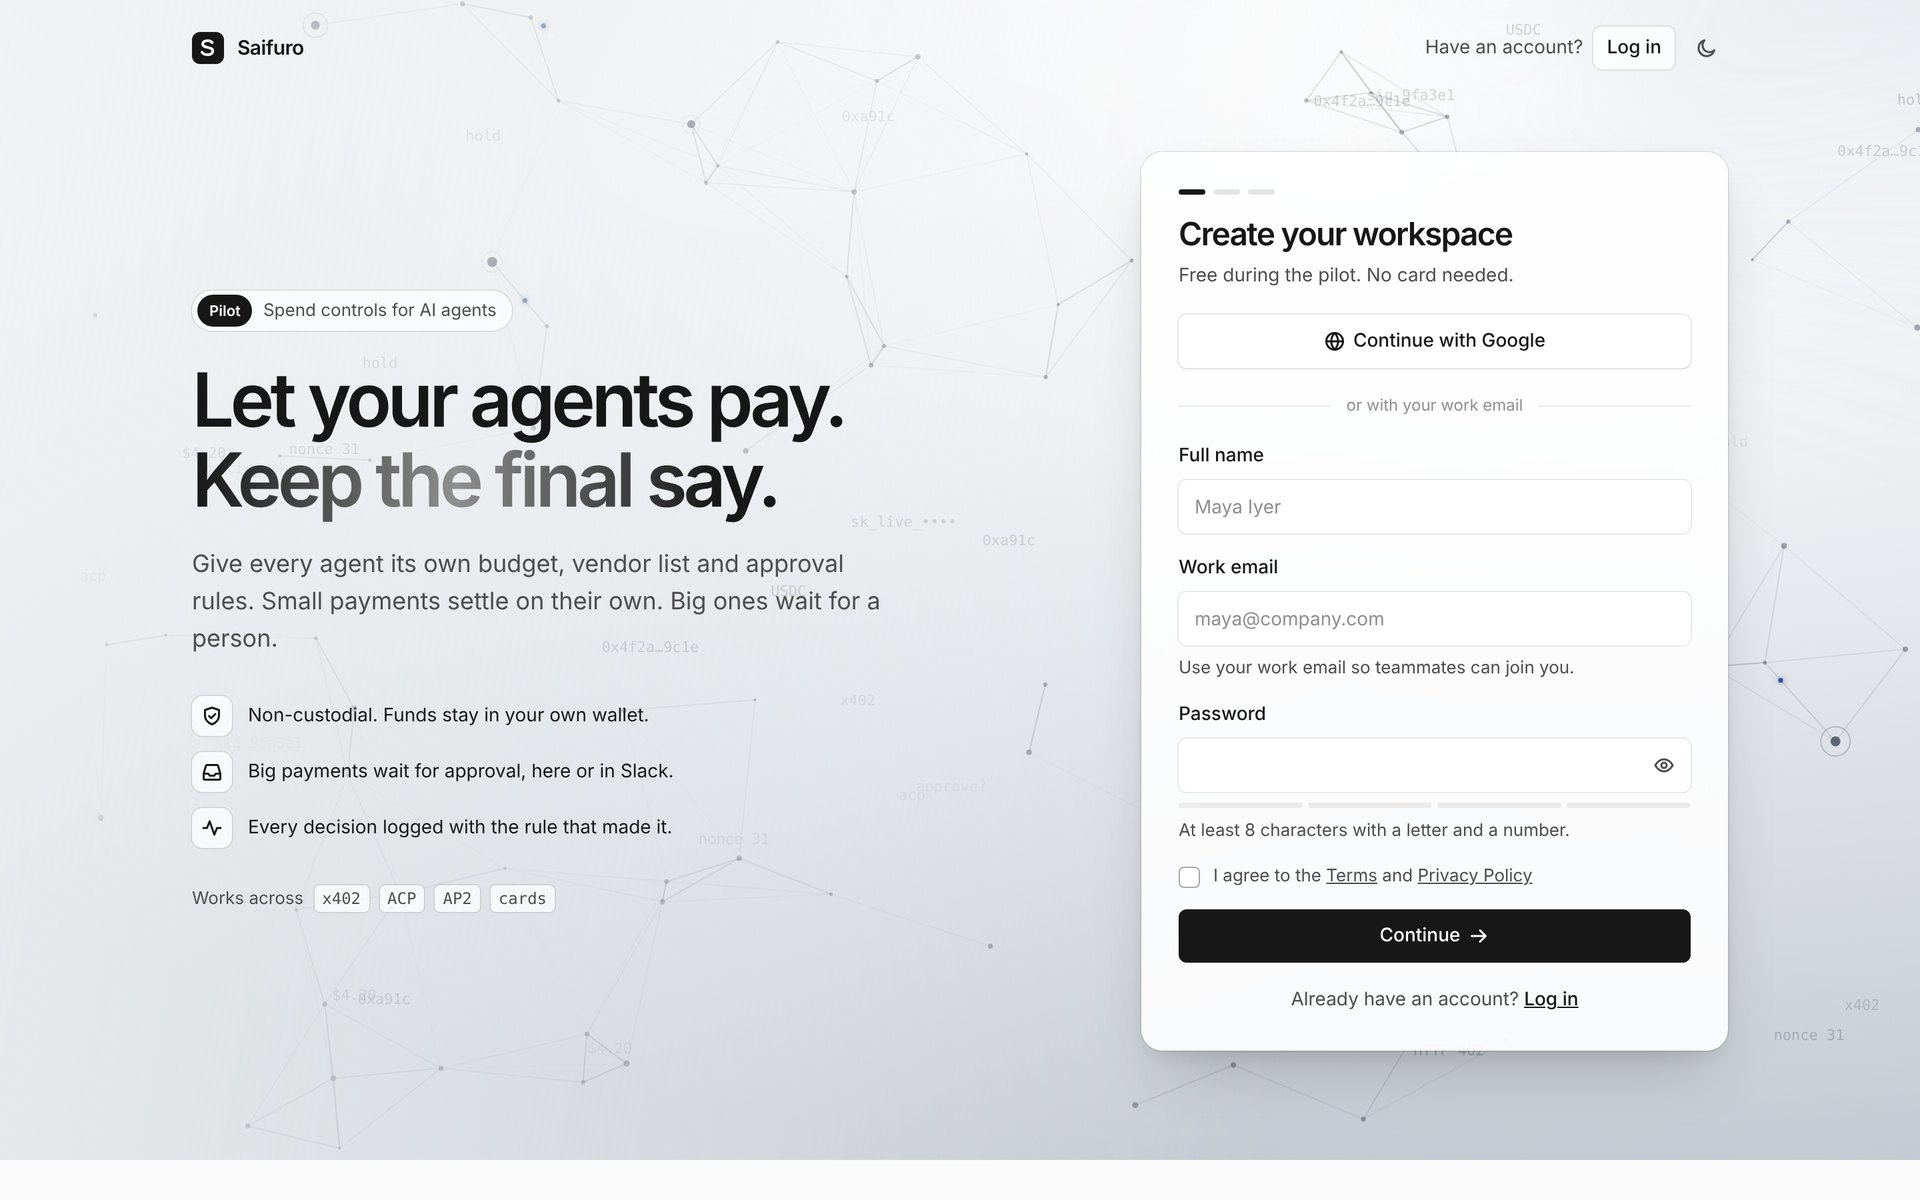
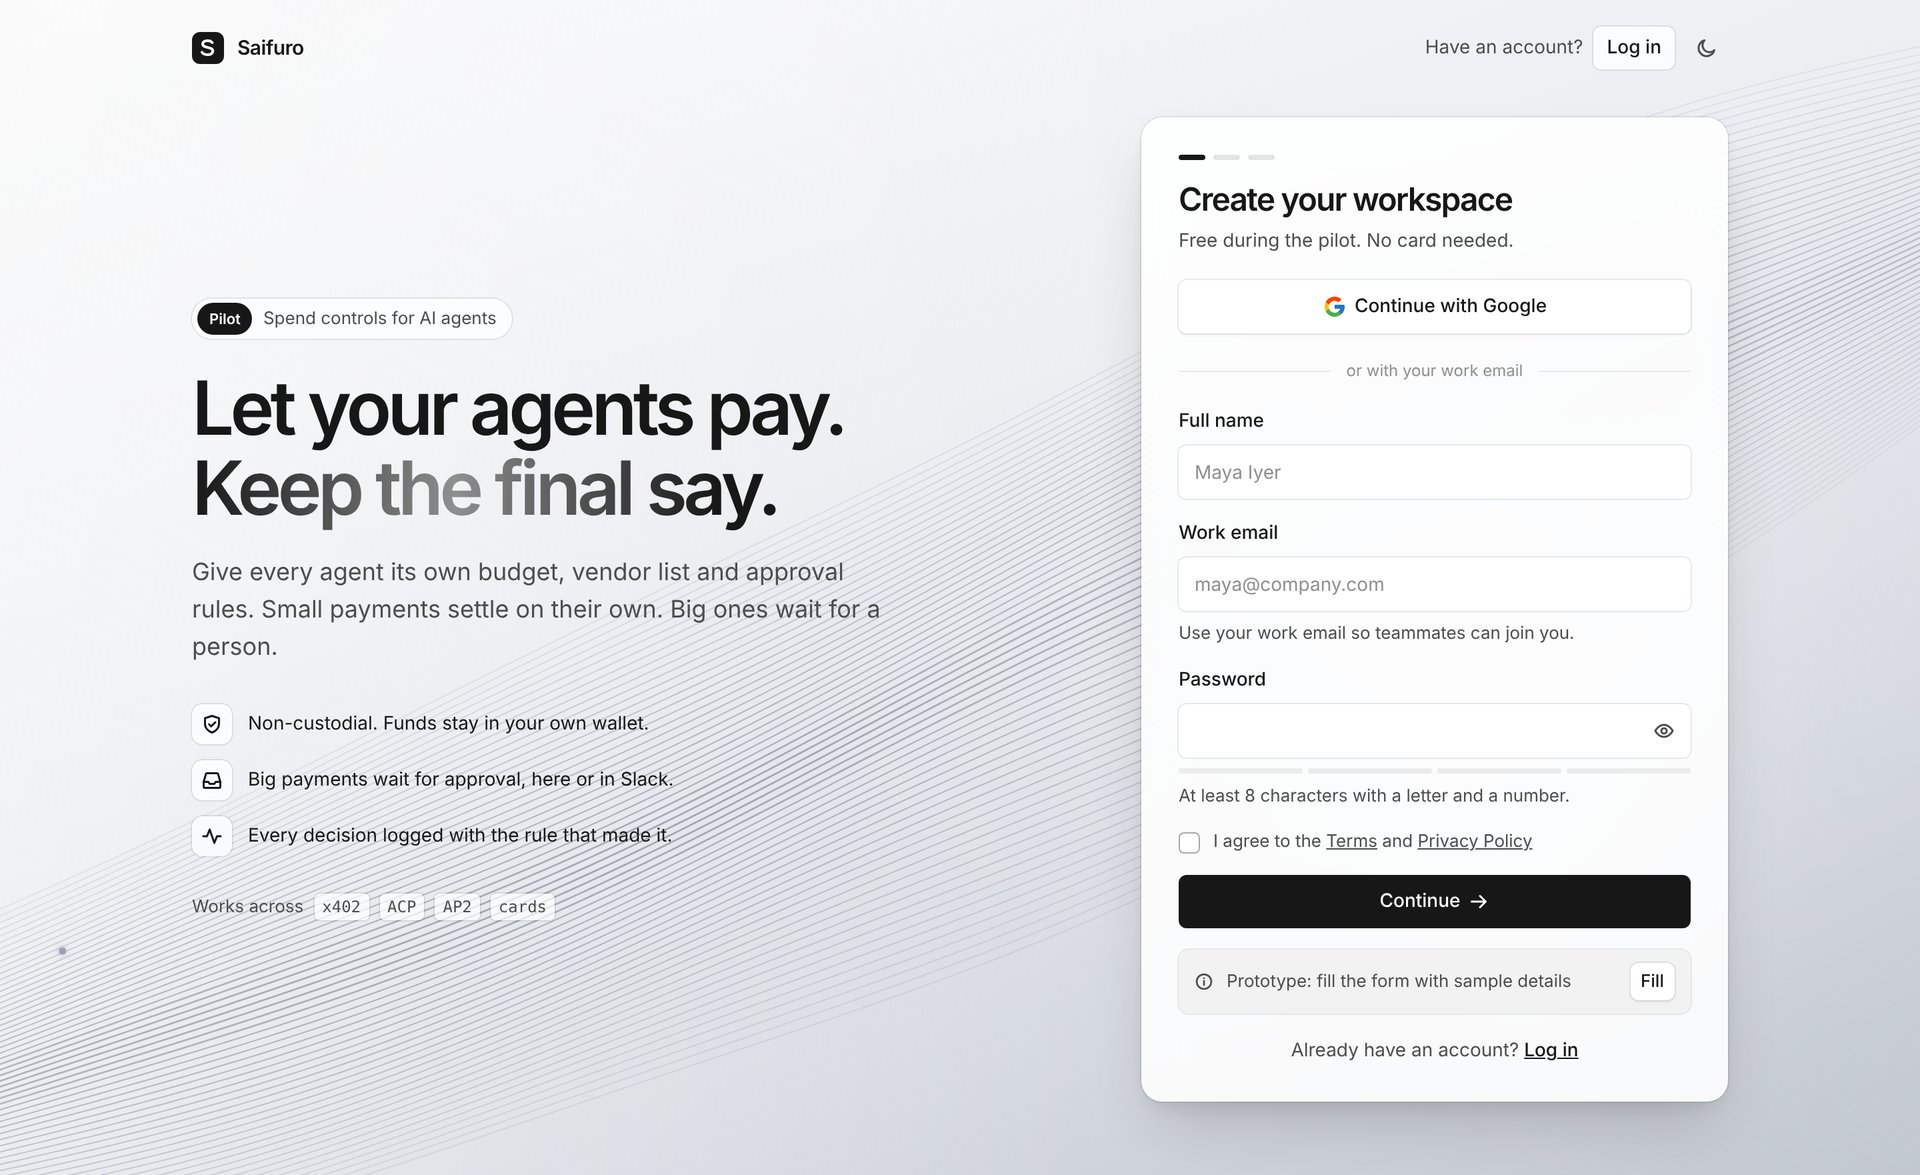
p02 Saifuro: new sign-up hero screenshot (silver flow, Google button, sample fill), copy updated for latest s02
Claude-Session: https://claude.ai/code/session_01XsxMJzHnu4bQwP42zg3JzL

diff --git a/p02/cases.js b/p02/cases.js
@@ -10,13 +10,13 @@
       title: 'Let agents pay. Keep the final say.',
       lede: 'AI agents are starting to buy things on their own: data, compute, flights. Saifuro Console is a concept for the control panel behind that. Teams give each agent a budget, a vendor list and approval rules, so small payments settle on their own and big ones wait for a person. I designed it and built it as a working prototype.',
       facts: [['Role', 'Product designer and builder'], ['Year', '2026'], ['Platform', 'Web console, desktop first'], ['Type', 'Self-initiated concept, not affiliated with Saifuro']],
-      hero: { src: 'saifuro-hero.jpg', w: 1920, h: 1200, alt: 'The Saifuro sign-up page: a headline reading Let your agents pay. Keep the final say, three product promises and a create-your-workspace form.' },
+      hero: { src: 'saifuro-hero.jpg?v=2', w: 1920, h: 1175, alt: 'The Saifuro sign-up page over a silver flow background: a headline reading Let your agents pay. Keep the final say, three product promises, and a create-your-workspace form with Continue with Google and a sample-details fill for the prototype.' },
       stats: [['5', 'Core surfaces: overview, approvals, agents, activity, settings'], ['4', 'Steps to create an agent with its own key and limits'], ['6', 'Policy checks shown on every approval request']],
       sections: [
         { label: 'Overview', title: 'A spend control panel for teams running AI agents.',
           lede: 'The console answers one question at a glance: what needs me right now, and how are my agents spending? Everything else, from creating an agent to exporting a log for finance, is one step away.',
           blocks: [{ type: 'lists', groups: [
-            { title: 'What I designed and built', items: ['Sign-up, log in, single sign-on and a guided first-run tour', 'Overview with approvals, spend and budget by agent', 'Approval review with policy checks and keyboard shortcuts', 'Four-step agent setup with a one-time key', 'Activity log with search, filters and CSV export', 'Approvers, alerts and light and dark themes'] },
+            { title: 'What I designed and built', items: ['Sign-up with Google or work email, log in, single sign-on and a guided tour on first login', 'Overview with approvals, spend and budget by agent', 'Approval review with policy checks and keyboard shortcuts', 'Four-step agent setup with a one-time key', 'Activity log with search, filters and CSV export', 'Approvers, alerts and light and dark themes'] },
             { title: 'Out of scope', muted: true, items: ['Real payments and wallets', 'Saifuro’s actual product or data', 'Back-end and payment-rail integrations'] }] }] },
         { label: 'Problem', title: 'Agents can spend money. Teams can’t see or stop it.',
           blocks: [
@@ -59,7 +59,7 @@
               images: [{ src: 'saifuro-key.jpg', w: 1920, h: 1200, alt: 'The agent created screen: a summary sentence of its limits, a warning to copy the key now, the key with a copy button, a stored-safely checkbox and a code snippet.' }],
               points: [['Shown once', 'The warning explains why, and how to rotate the key if it is lost.'], ['Ready to use', 'A short code snippet shows exactly where the key goes.'], ['No silent loss', 'Navigating away before confirming triggers a warning.']] }] },
         { label: 'Outcome', title: 'A working prototype, end to end.',
-          lede: 'Everything in this case study works in the browser with sample data: sign up, take the tour, approve and decline requests, create an agent, export the log and switch themes.',
+          lede: 'Everything in this case study works in the browser with sample data: sign up (one click fills in sample details), take the tour, approve and decline requests, create an agent, export the log and switch themes.',
           blocks: [
             { type: 'figure', img: { src: 'saifuro-activity.jpg', w: 1920, h: 1200, alt: 'The activity log: every payment attempt with time, agent, vendor, payment rail, amount and status such as Paid, Pending or Blocked.' }, caption: 'Activity: every payment attempt and the rule that decided it.' },
             { type: 'cards', cols: 3, items: [
